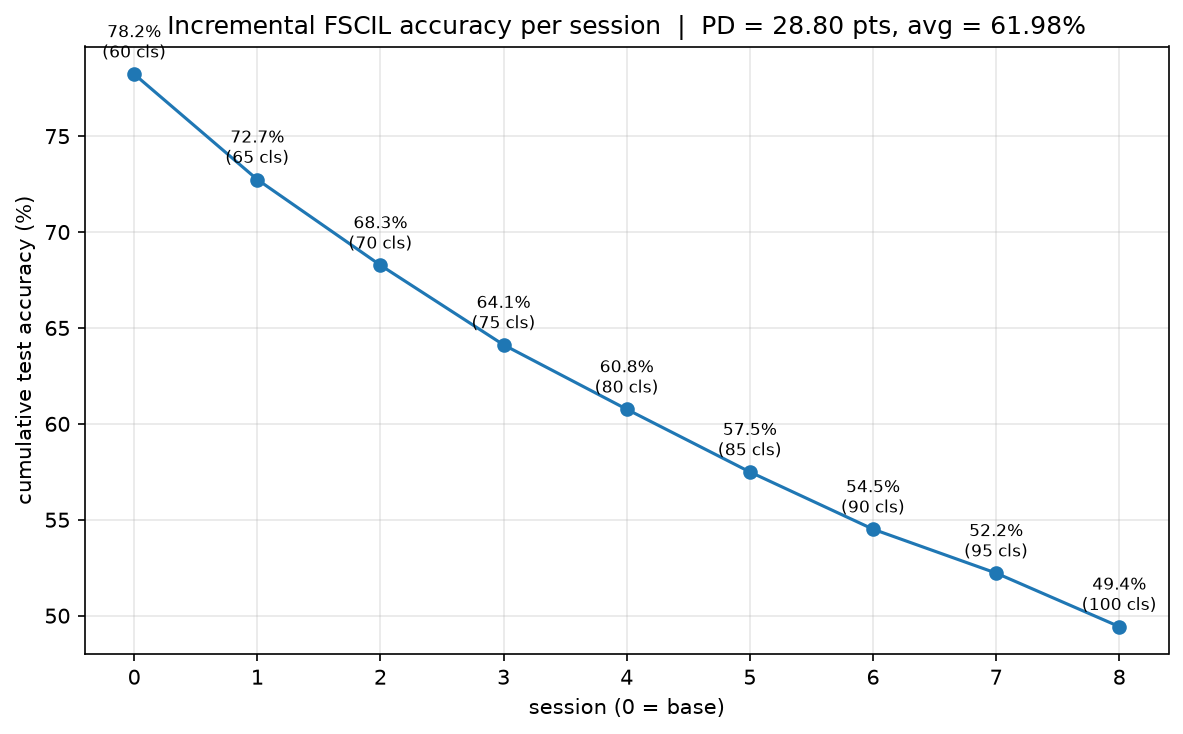
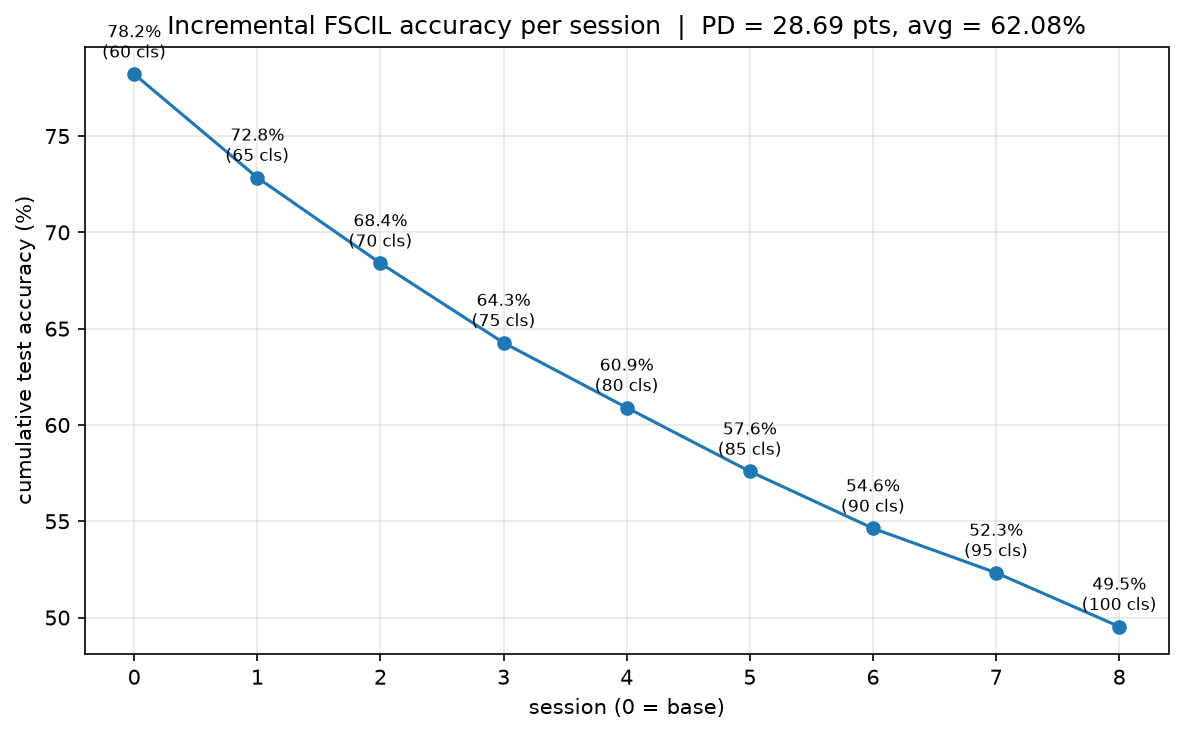
CIFAR-100 (rescored) result: base 78.22%, final 49.53%, PD 28.69, avg 62.08%, A_B 68.72%, A_N 20.75%, HM 31.87%
Auto-committed by the training orchestrator.

Claude-Session: https://claude.ai/code/session_01GDGJYxSeGz7wbgpdPrPcEm

diff --git a/results/REPORT.md b/results/REPORT.md
@@ -1,12 +1,12 @@
 # STAG-STI — Results & Analysis
 
-_Generated 2026-09-08 18:37 • auto-updated as runs complete._
+_Generated 2026-09-08 18:46 • auto-updated as runs complete._
 
 ## In-domain results
 
 | Dataset | A₀ (base) | A_T (final) | PD ↓ | Avg | A_B | A_N | HM |
 |---|---|---|---|---|---|---|---|
-| CIFAR-100 | 78.23 | 49.43 | 28.80 | 61.98 | 68.45 | 20.90 | 32.02 |
+| CIFAR-100 | 78.22 | 49.53 | 28.69 | 62.08 | 68.72 | 20.75 | 31.87 |
 | miniImageNet | 66.57 | 40.34 | 26.23 | 51.32 | 56.20 | 16.55 | 25.57 |
 | CUB-200 | 1.05 | 1.73 | -0.68 | 5.39 | 0.00 | 3.41 | 0.00 |
 
@@ -21,7 +21,7 @@ _Generated 2026-09-08 18:37 • auto-updated as runs complete._
 | FACT | TODO | TODO | 56.94 |
 | SAVC | TODO | TODO | 62.50 |
 | CLOSER | TODO | TODO | 63.58 |
-| **STAG-STI (ours)** | **49.43** | **40.34** | **1.73** |
+| **STAG-STI (ours)** | **49.53** | **40.34** | **1.73** |
 
 _CUB-200 baselines from the Review-1 deck; CIFAR-100 / miniImageNet baselines are TODO — fill from the source papers._
 
@@ -29,7 +29,7 @@ _CUB-200 baselines from the Review-1 deck; CIFAR-100 / miniImageNet baselines ar
 
 | Configuration | A₀ | A_T | PD ↓ | Avg |
 |---|---|---|---|---|
-| Full model | 78.23 | 49.43 | 28.80 | 61.98 |
+| Full model | 78.22 | 49.53 | 28.69 | 62.08 |
 | − supcon | 78.40 | 48.76 | 29.64 | 61.71 |
 | − topology | 78.15 | 50.03 | 28.12 | 61.93 |
 | − agedecay | 78.60 | 49.51 | 29.09 | 62.14 |
